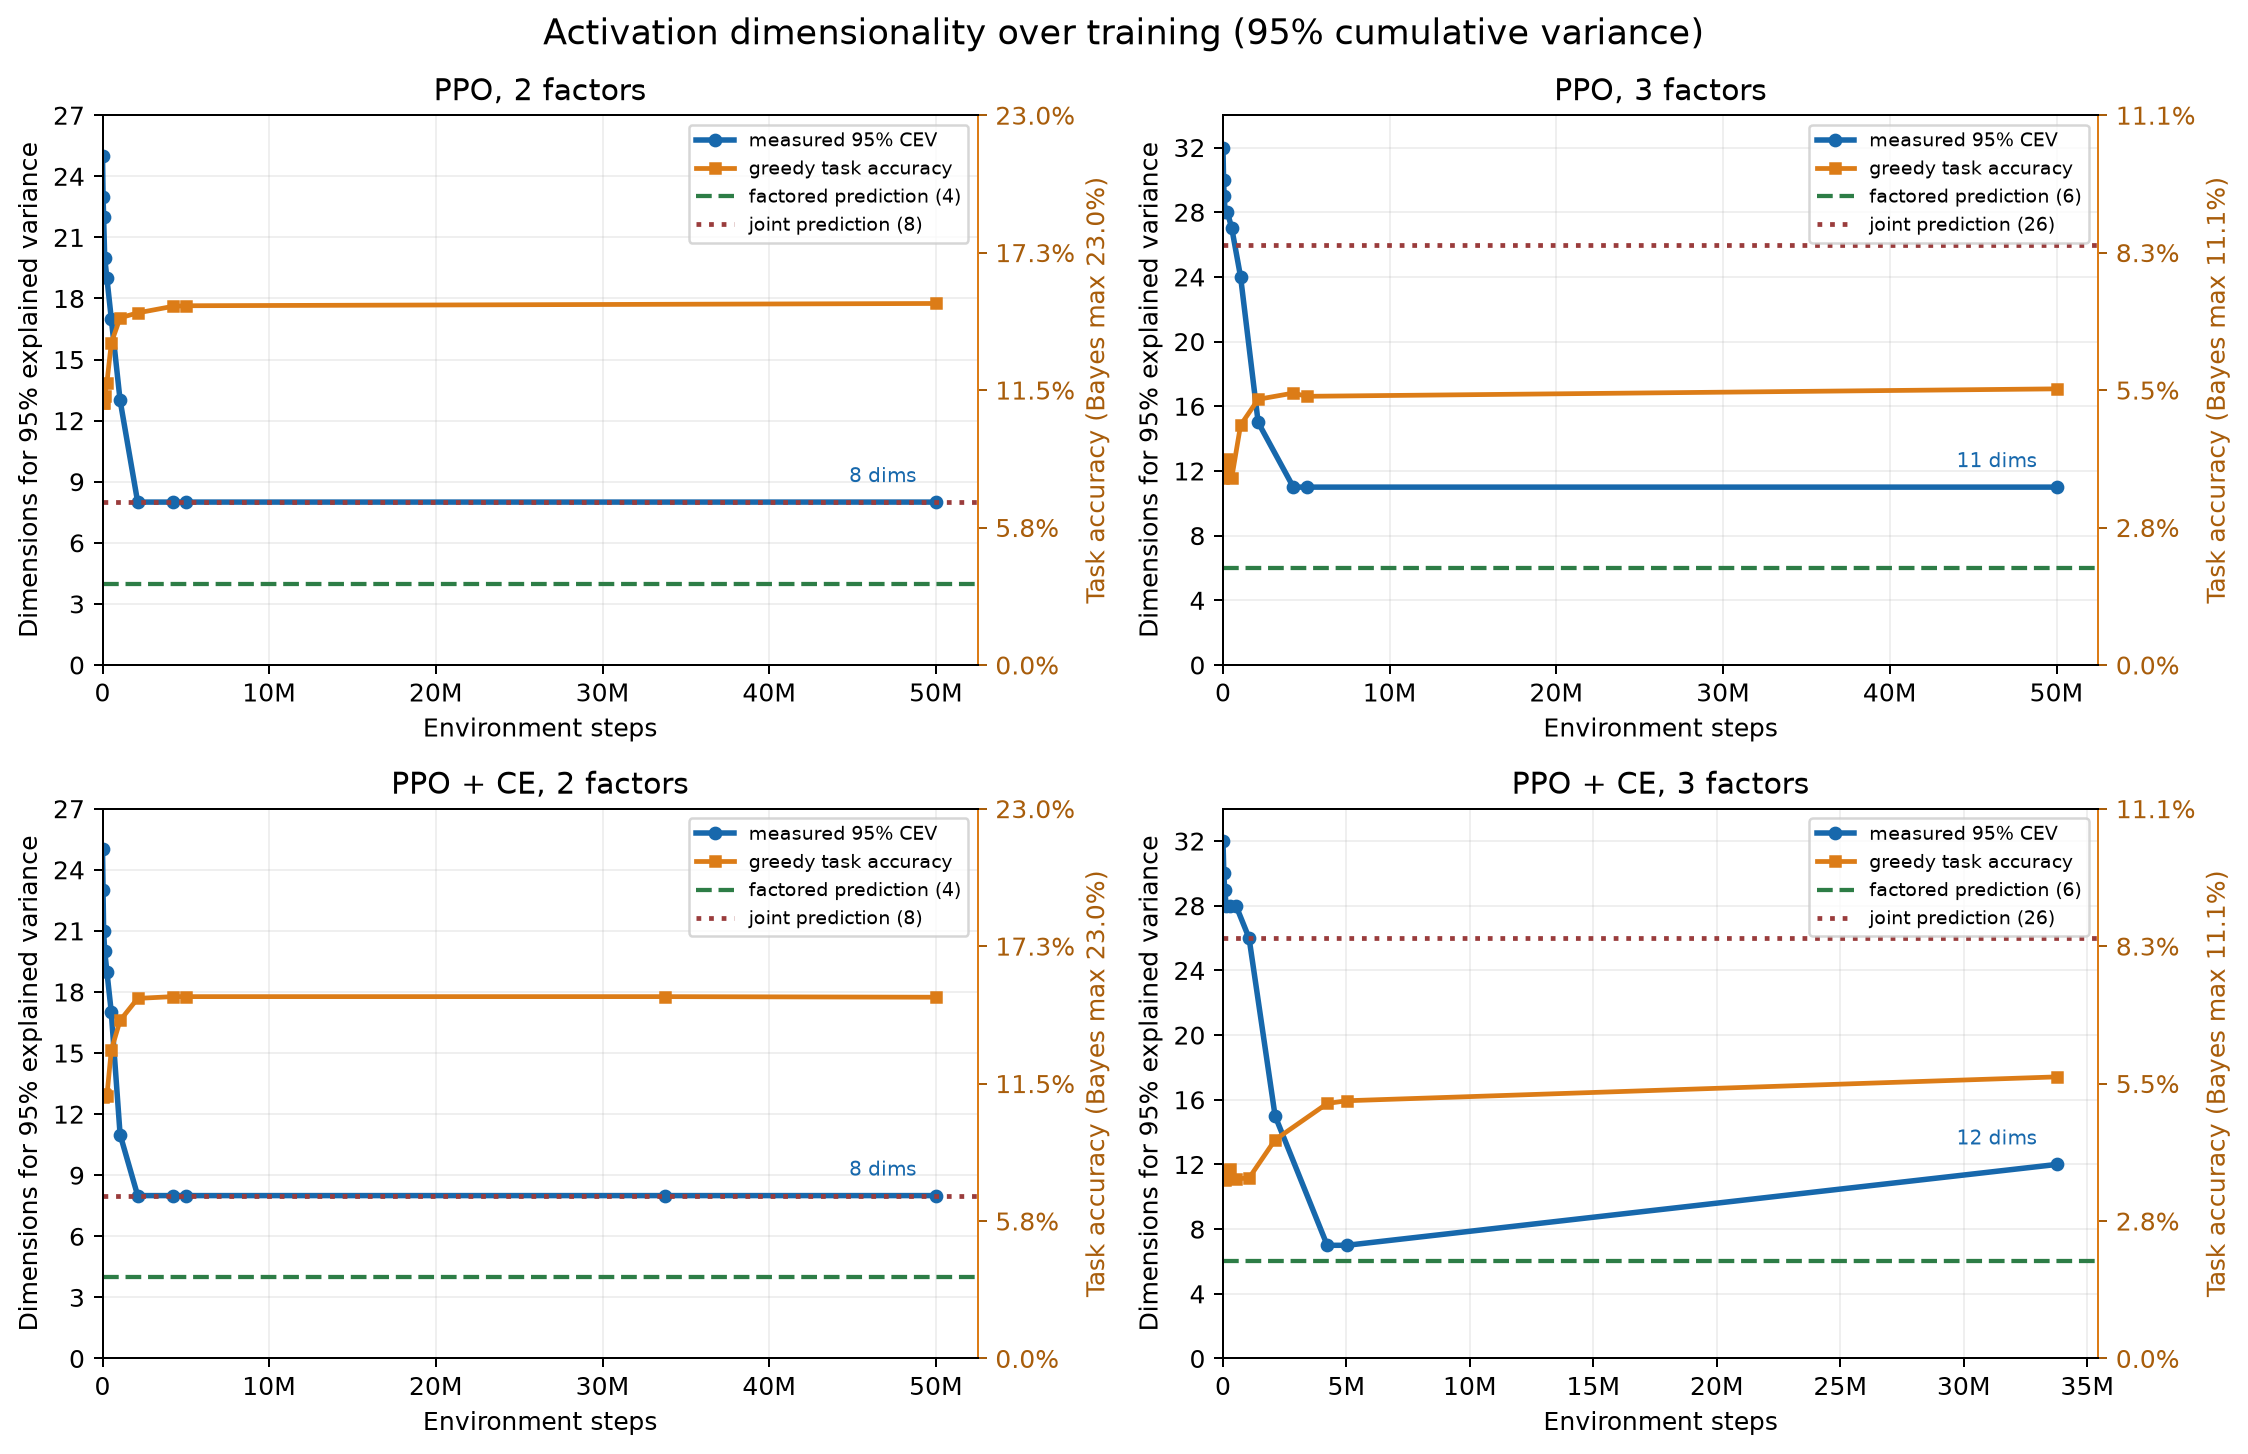
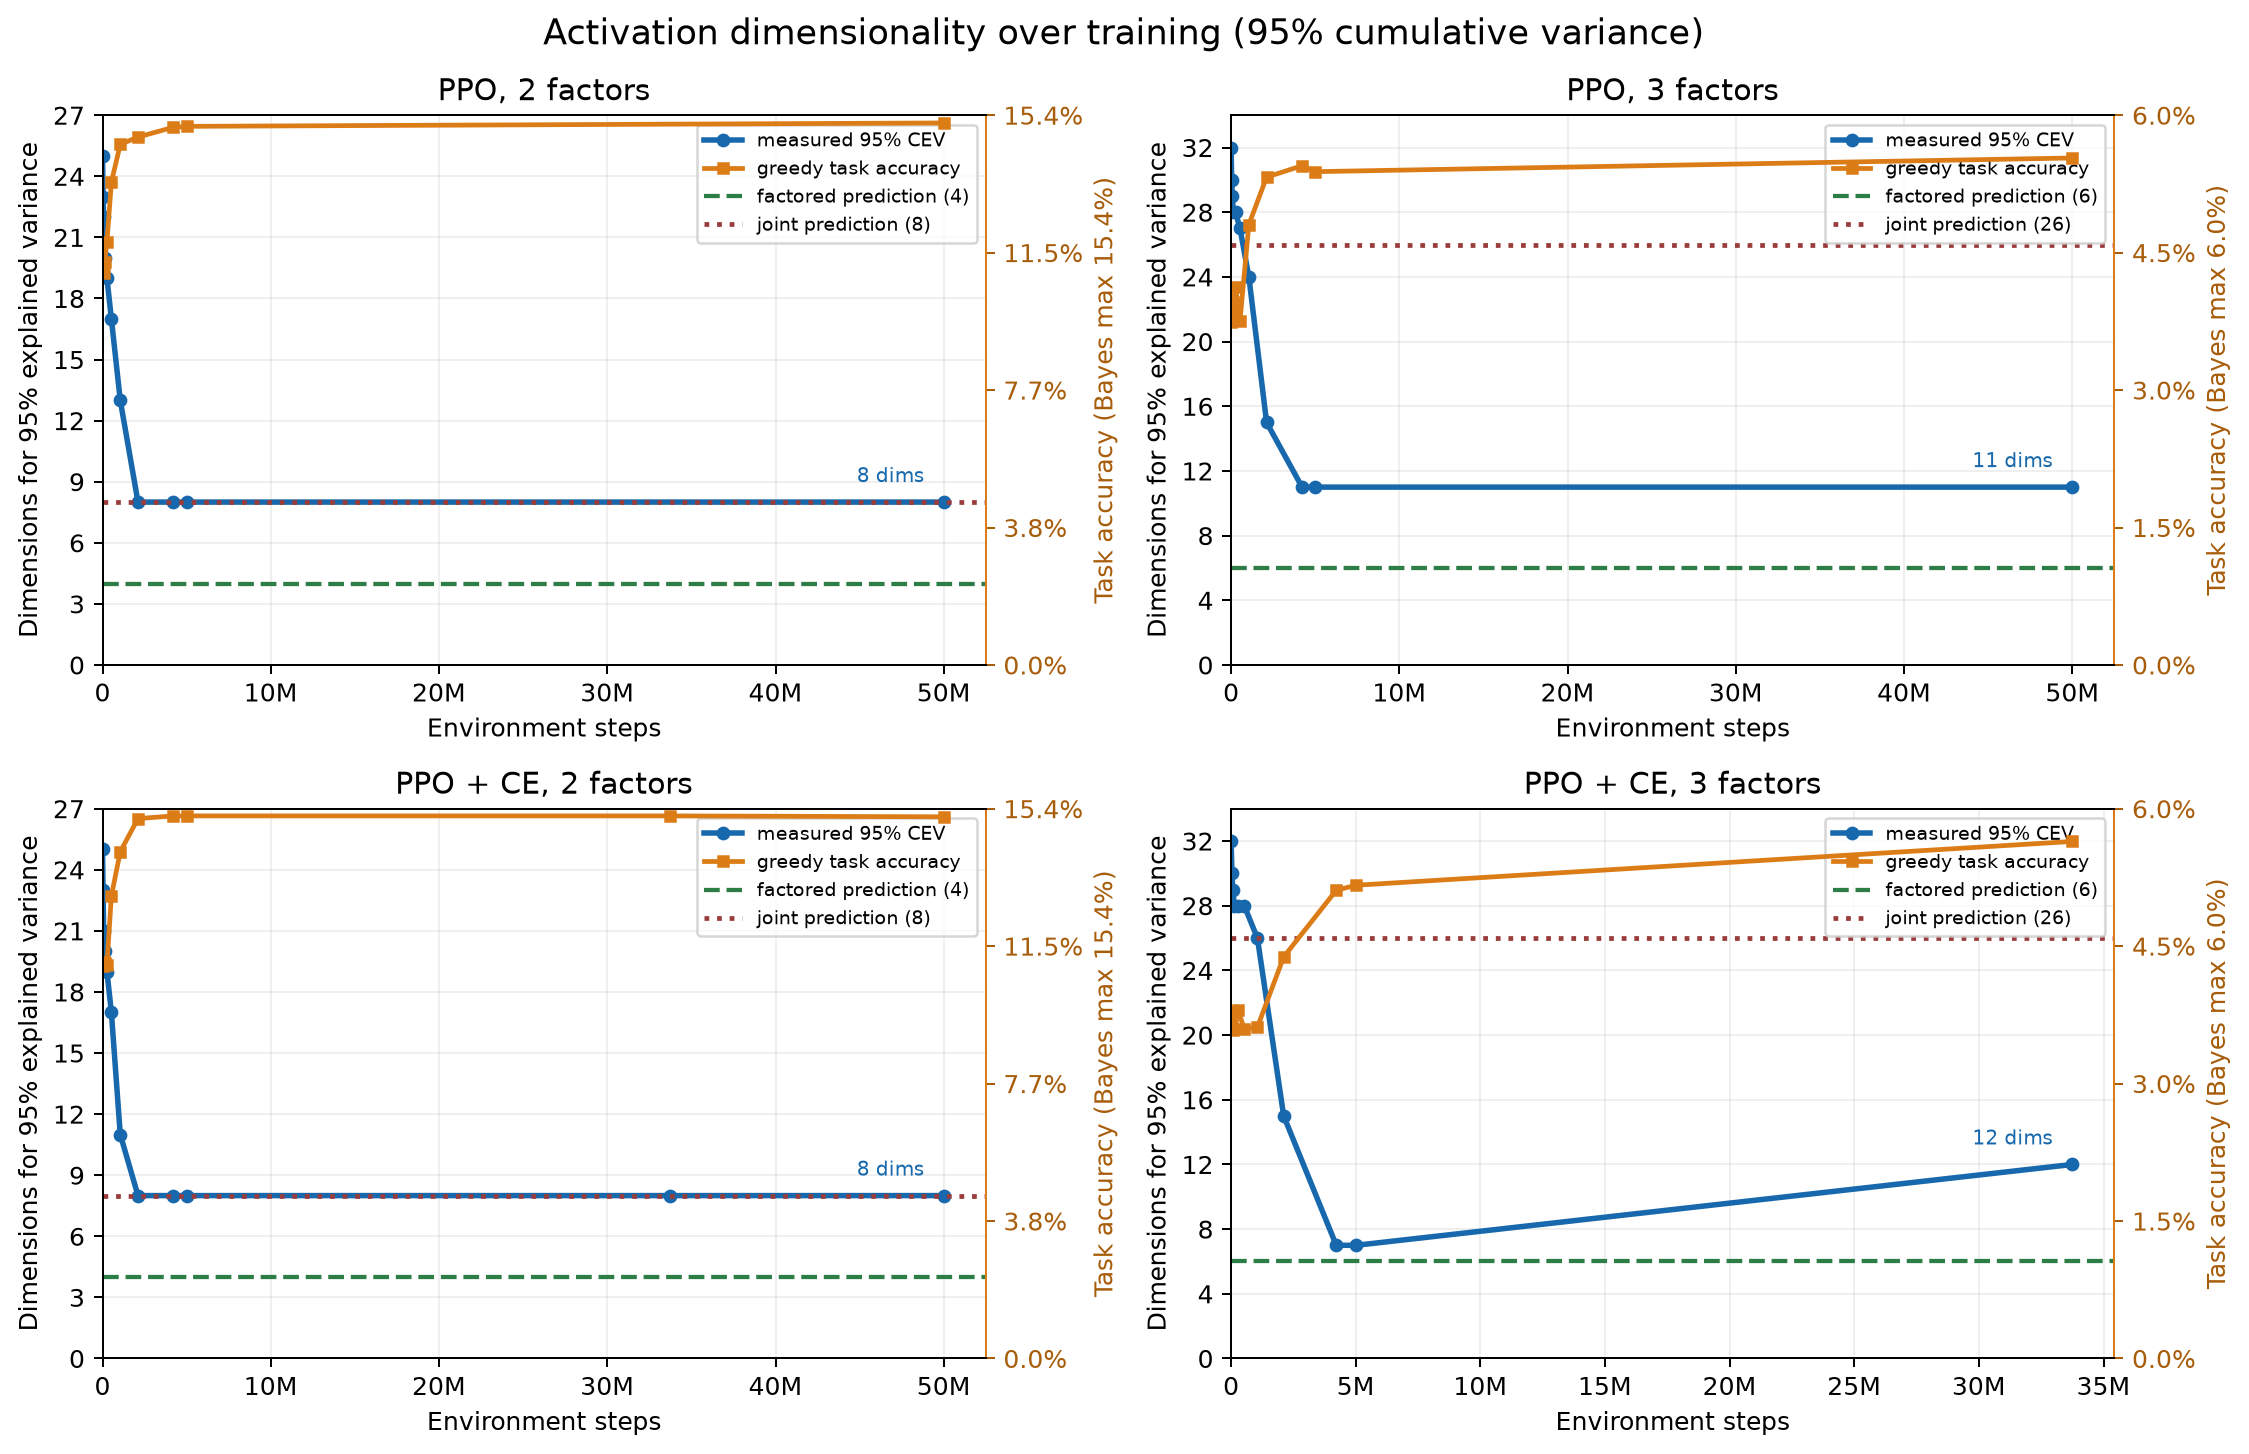
Correct Bayes ceilings in findings and plots

diff --git a/tests/test_factored_representations_reproduction_2026_08.py b/tests/test_factored_representations_reproduction_2026_08.py
@@ -394,18 +394,16 @@ def test_cev95_plot_uses_all_four_committed_trajectories(tmp_path):
         "PPO + CE, 3 factors",
     }
     expected_latest = {
-        "PPO, 2 factors": (50_002_756, 8, 4, 8, 0.2304),
-        "PPO, 3 factors": (50_002_756, 11, 6, 26, 0.1106),
-        "PPO + CE, 2 factors": (50_002_756, 8, 4, 8, 0.2304),
-        "PPO + CE, 3 factors": (33_752_686, 12, 6, 26, 0.1106),
+        "PPO, 2 factors": (50_002_756, 8, 4, 8, 0.392**2),
+        "PPO, 3 factors": (50_002_756, 11, 6, 26, 0.392**3),
+        "PPO + CE, 2 factors": (50_002_756, 8, 4, 8, 0.392**2),
+        "PPO + CE, 3 factors": (33_752_686, 12, 6, 26, 0.392**3),
     }
     for title, trajectory in trajectories.items():
         assert np.all(np.diff(trajectory["steps"]) > 0)
         assert len(trajectory["accuracies"]) == len(trajectory["steps"])
         assert np.all(trajectory["accuracies"] >= 0.0)
-        assert np.all(
-            trajectory["accuracies"] <= trajectory["bayes_accuracy"]
-        )
+        assert np.all(trajectory["accuracies"] <= 1.0)
         expected = expected_latest[title]
         assert int(trajectory["steps"][-1]) == expected[0]
         assert int(trajectory["dimensions"][-1]) == expected[1]

diff --git a/experiments/factored_representations_reproduction_2026_08/plot_cev95_dimensions.py b/experiments/factored_representations_reproduction_2026_08/plot_cev95_dimensions.py
@@ -28,10 +28,11 @@ PANEL_SPECS = (
     ("PPO + CE, 3 factors", "ppo_aux_ce_3_factors", 3),
 )
 BAYES_ACCURACY_BY_FACTOR_COUNT = {
-    # 50,000-episode, process-weighted estimates from
-    # estimate_bayes_accuracy.py with seed 123.
-    2: 0.2304,
-    3: 0.1106,
+    # Exact process-weighted ceilings. The one-factor expected maximum
+    # predictive token probability is 0.392 at every scored position, and
+    # independent joint-token probabilities multiply.
+    2: 0.392**2,
+    3: 0.392**3,
 }
 
 

diff --git a/experiments/factored_representations_reproduction_2026_08/FINDINGS.md b/experiments/factored_representations_reproduction_2026_08/FINDINGS.md
@@ -40,6 +40,10 @@ checkpoint corruption. No values were imputed or discarded.
 | PPO + CE | 3 | 5,010,167 | 0.0519 | 5.78 | 6/7/18 | 0.032/0.047 | 0.099 |
 | PPO + CE | 3 | 33,752,686 | 0.0566 | 9.16 | 9/12/17 | 0.054/0.026 | 0.183 |
 
+With the corrected exact Bayes ceilings, the latest greedy accuracies attain
+98.6% and 98.5% of Bayes for two-factor PPO and PPO+CE, respectively. The
+three-factor PPO and PPO+CE checkpoints attain 92.2% and 94.0%.
+
 The continuation does **not** support the hypothesis that more PPO training
 drives global CEV dimensionality toward the algebraic factored predictions
 (four dimensions for two factors and six for three). The two-factor d99 tails
@@ -60,10 +64,16 @@ globally factored.
 ## Task-performance baselines
 
 Random guessing has accuracy \(1/3^F\), where \(F\) is the number of factors.
-The Bayes policy chooses the largest component of the environment's exact
-predictive distribution. A 50,000-episode Monte Carlo evaluation of those
-diagnostic beliefs, with the same randomized initial episode length and BOS
-exclusion as the probes, gave the following process-weighted ceilings:
+The Bayes policy chooses the largest component of the emitted-token
+distribution, computed from the decision-time hidden-state belief \(b\) as
+\(bE\), where \(E\) is the emission matrix. An earlier calculation incorrectly
+maximized \(b\) itself and therefore reported the easier hidden-state
+classification ceiling rather than the rewarded token-prediction ceiling.
+
+Exact enumeration gives a one-factor expected maximum token probability of
+0.392 at every scored position. Because the factors are independent, the joint
+ceilings are \(0.392^F\). A 100,000-episode Monte Carlo evaluation of \(bE\)
+confirmed the exact values to sampling error.
 
 Reproduce the estimate with:
 
@@ -72,23 +82,23 @@ uv run python -m \
   experiments.factored_representations_reproduction_2026_08.estimate_bayes_accuracy
 ```
 
-| Factors | Joint classes | Chance | Estimated Bayes optimal |
+| Factors | Joint classes | Chance | Exact Bayes optimal |
 |---:|---:|---:|---:|
-| 2 | 9 | 0.1111 | 0.2304 |
-| 3 | 27 | 0.0370 | 0.1106 |
+| 2 | 9 | 0.1111 | 0.153664 |
+| 3 | 27 | 0.0370 | 0.060236288 |
 
 Final held-out greedy policy accuracy was:
 
 | Objective | Factors | Init | Final | Final / Bayes | Fraction of chance-to-Bayes gap closed |
 |---|---:|---:|---:|---:|---:|
-| PPO | 2 | 0.1099 | 0.1506 | 65.4% | 33.1% |
-| PPO + CE | 2 | 0.1099 | 0.1517 | 65.8% | 34.0% |
-| PPO | 3 | 0.0376 | 0.0541 | 48.9% | 23.1% |
-| PPO + CE | 3 | 0.0376 | 0.0519 | 46.9% | 20.1% |
+| PPO | 2 | 0.1099 | 0.1506 | 98.0% | 92.7% |
+| PPO + CE | 2 | 0.1099 | 0.1517 | 98.7% | 95.3% |
+| PPO | 3 | 0.0376 | 0.0541 | 89.7% | 73.3% |
+| PPO + CE | 3 | 0.0376 | 0.0519 | 86.1% | 63.9% |
 
 The auxiliary loss therefore changed representation geometry without improving
-the task policy at this budget. All four agents remained substantially below
-Bayes-optimal prediction.
+the task policy at this budget. The two-factor agents were already near
+Bayes-optimal prediction; the three-factor agents retained a modest gap.
 
 ## How to read the representation metrics
 
